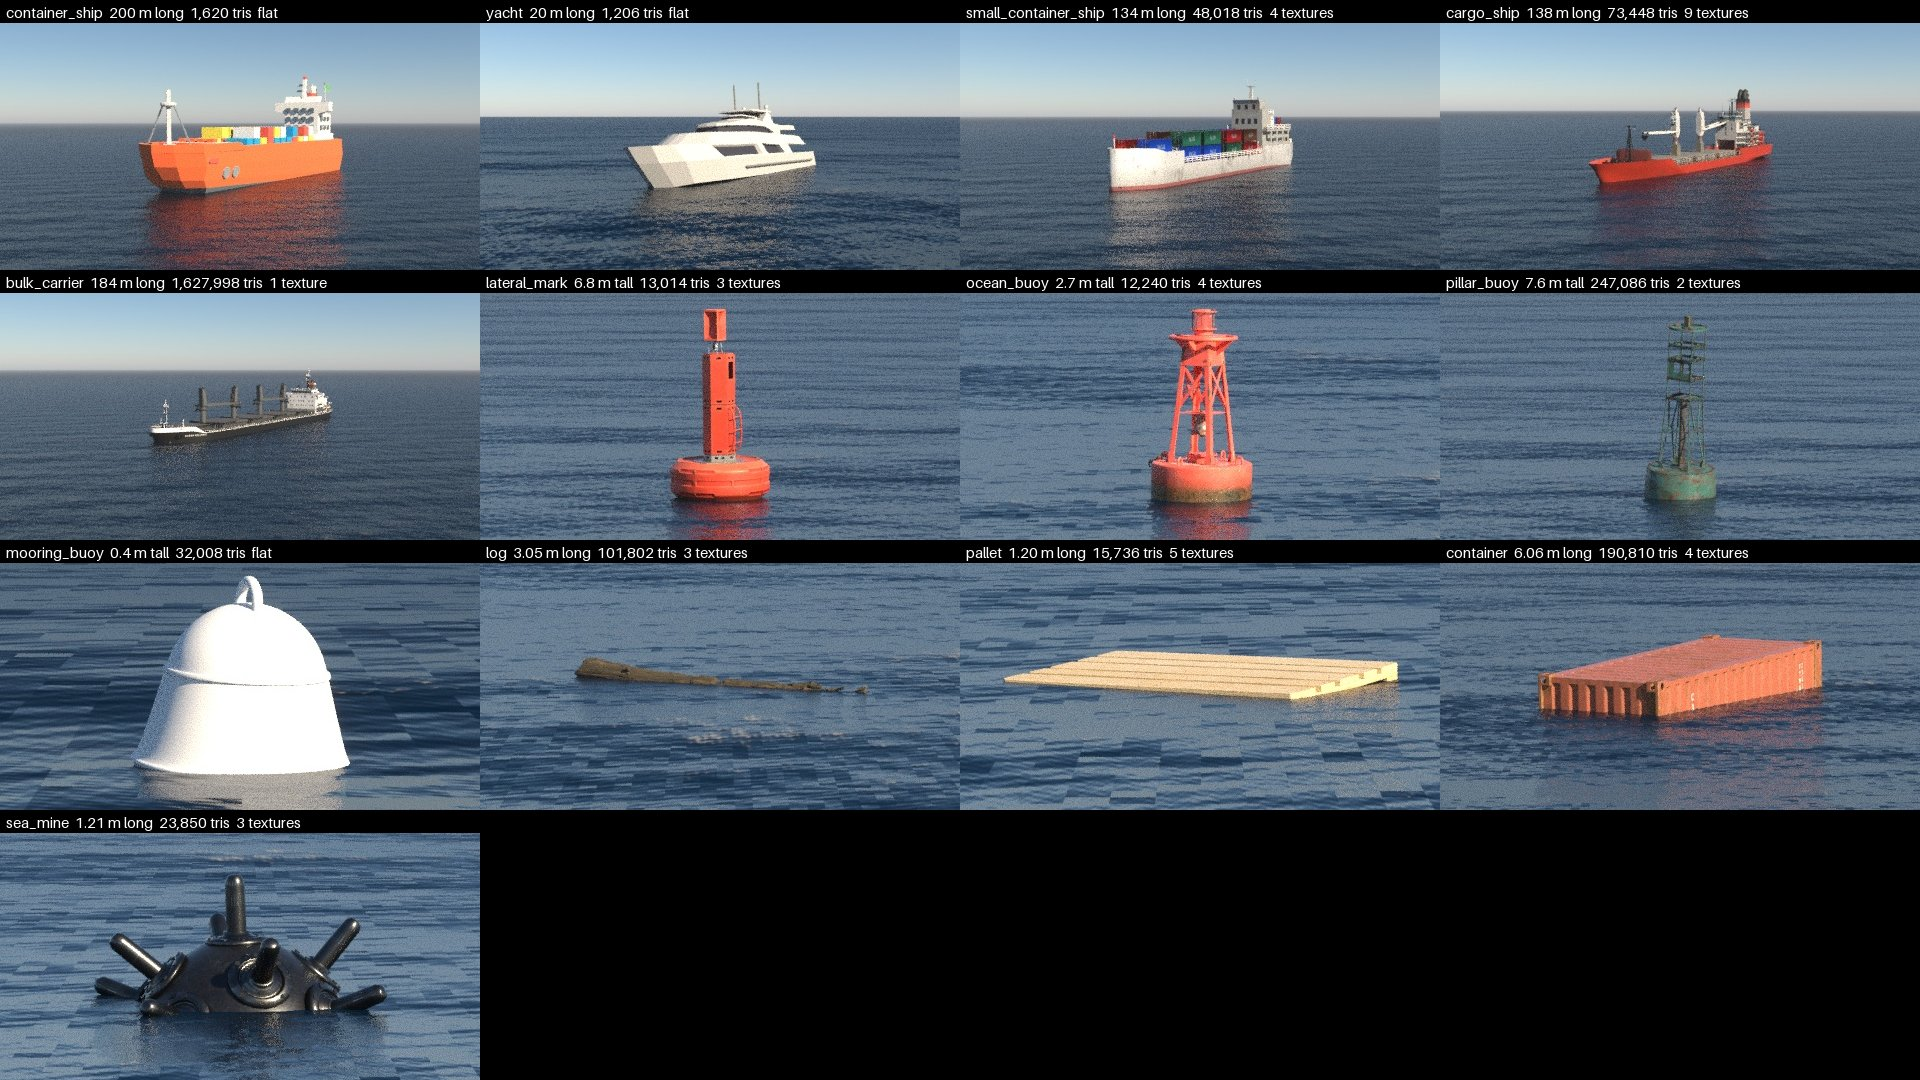
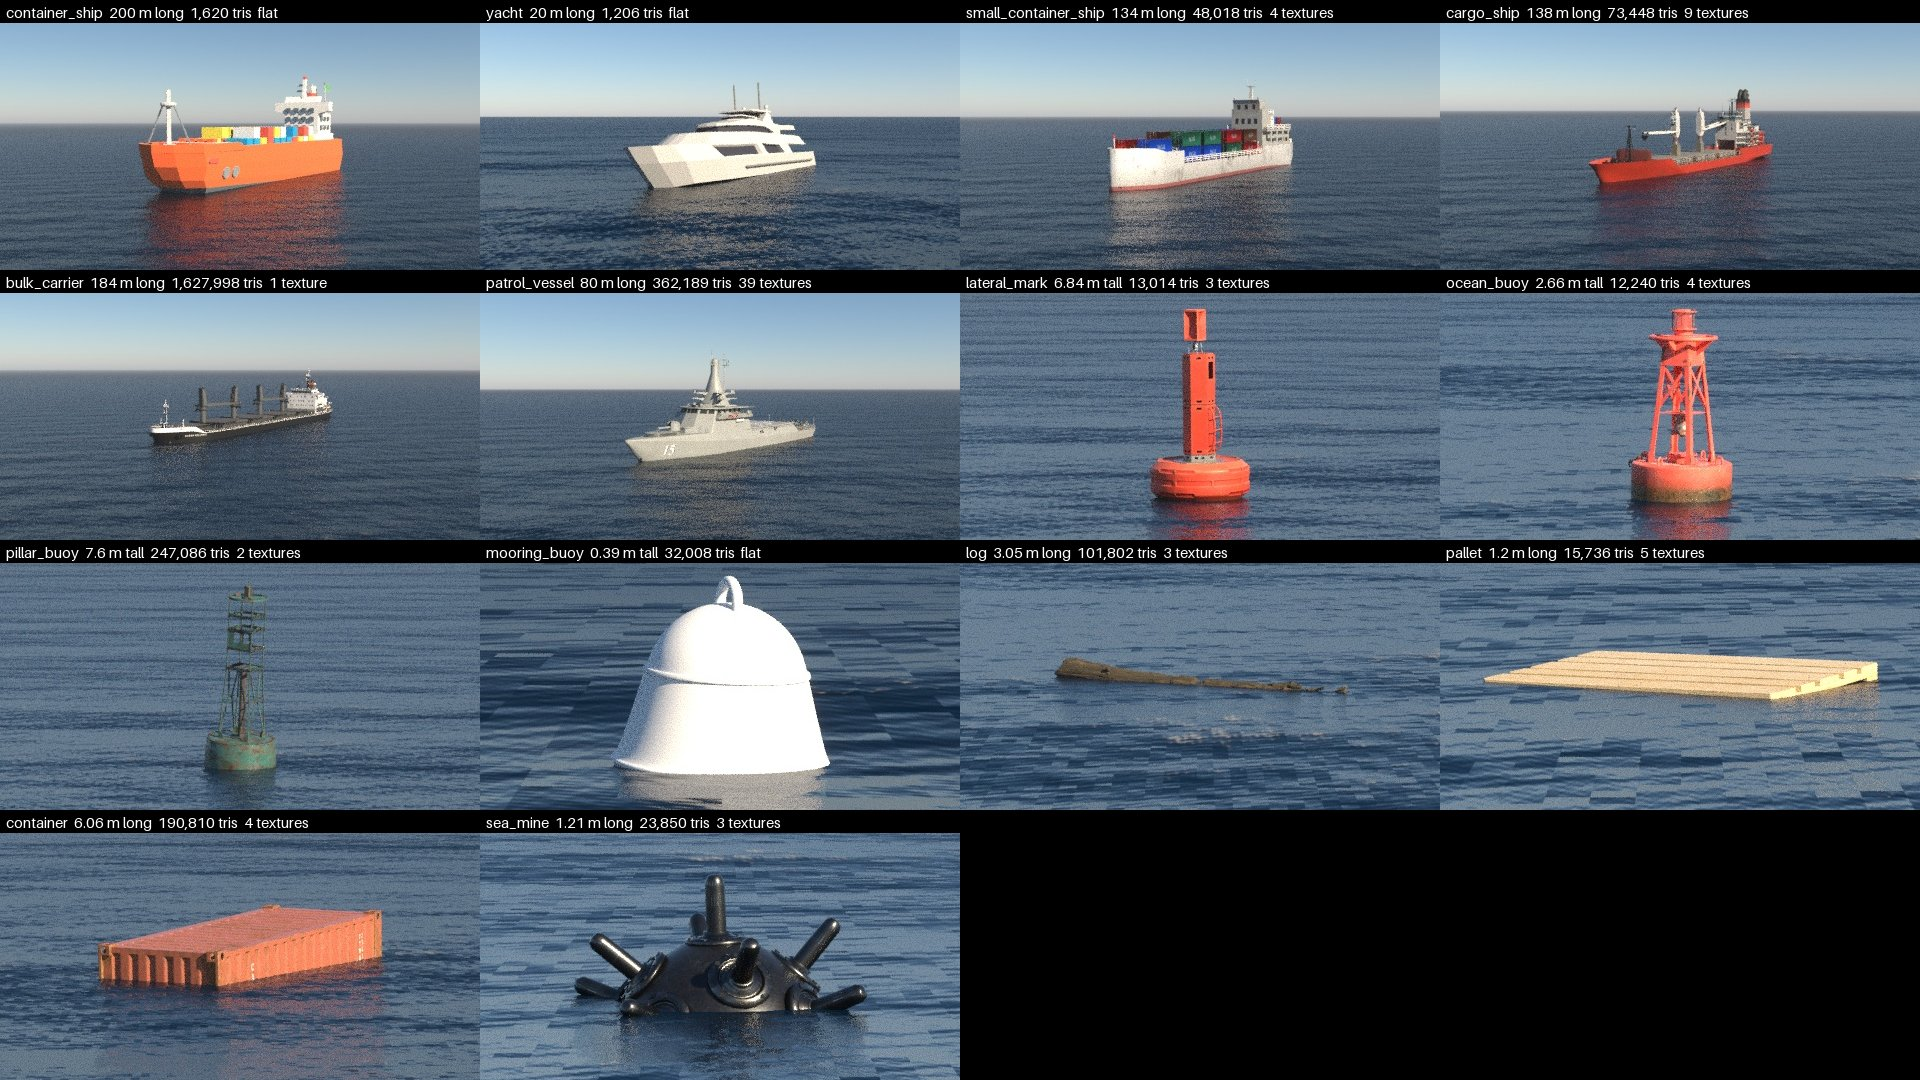
feat: a patrol vessel, from an Independence-class littoral mission vessel (#147)
* feat: a patrol vessel, from an Independence-class littoral mission vessel

* docs: the patrol vessel cites its beam and states its bow

---------

diff --git a/tests/test_cli.py b/tests/test_cli.py
@@ -84,7 +84,10 @@ def test_asset_names_complete(run: Run) -> None:
         "COMP_CWORD": "3",
         "_SEASCAPE_COMPLETE": "bash_complete",
     }
-    assert run(env=shell).stdout.splitlines() == ["plain,pallet"]
+    names = run(env=shell).stdout.splitlines()
+
+    assert "plain,pallet" in names
+    assert all(name.startswith("plain,pa") for name in names)
 
 
 def test_measure_prints_only_the_manifest_lines(
